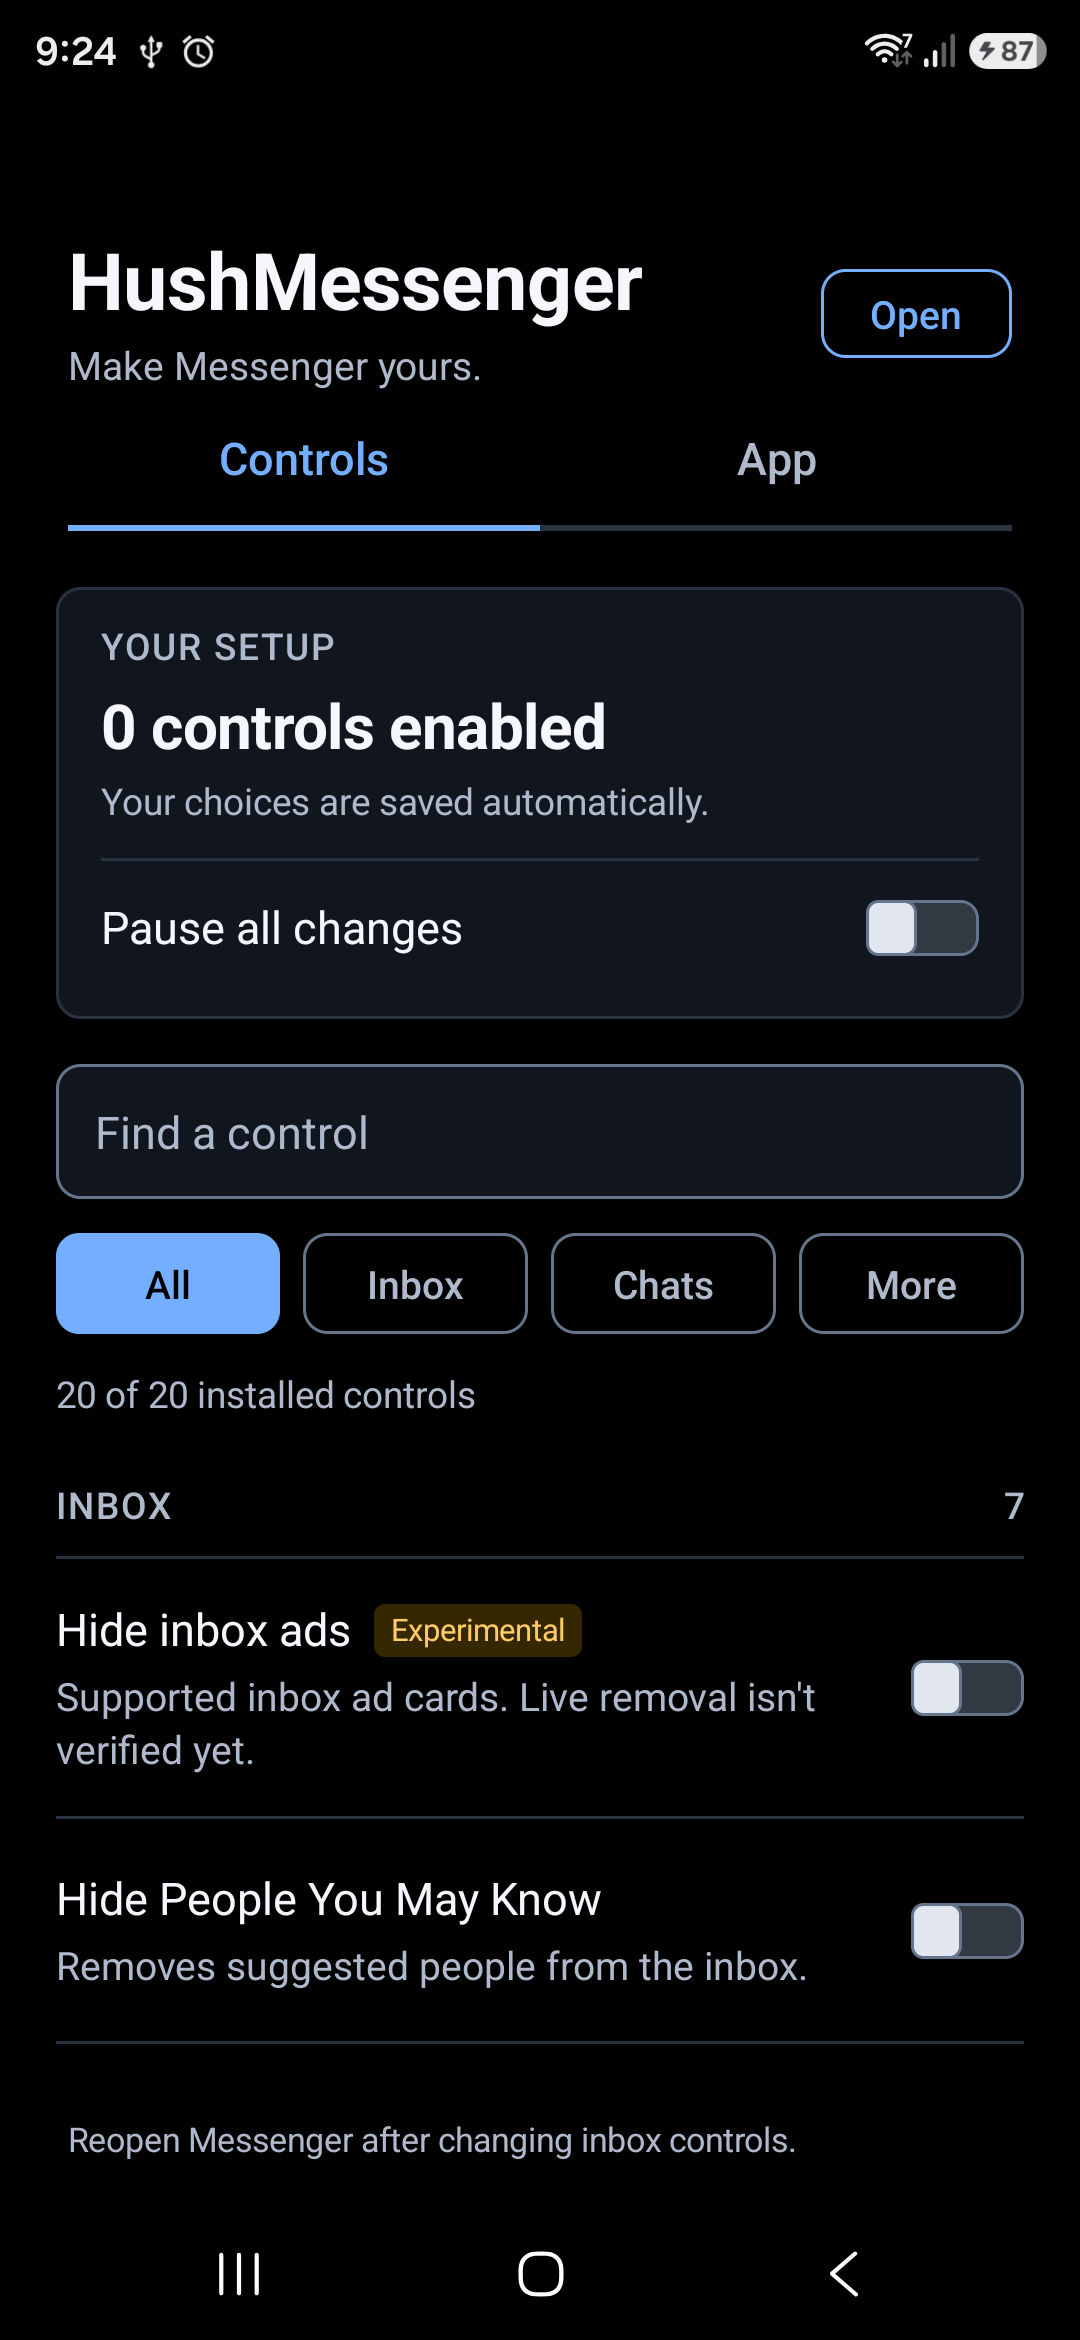
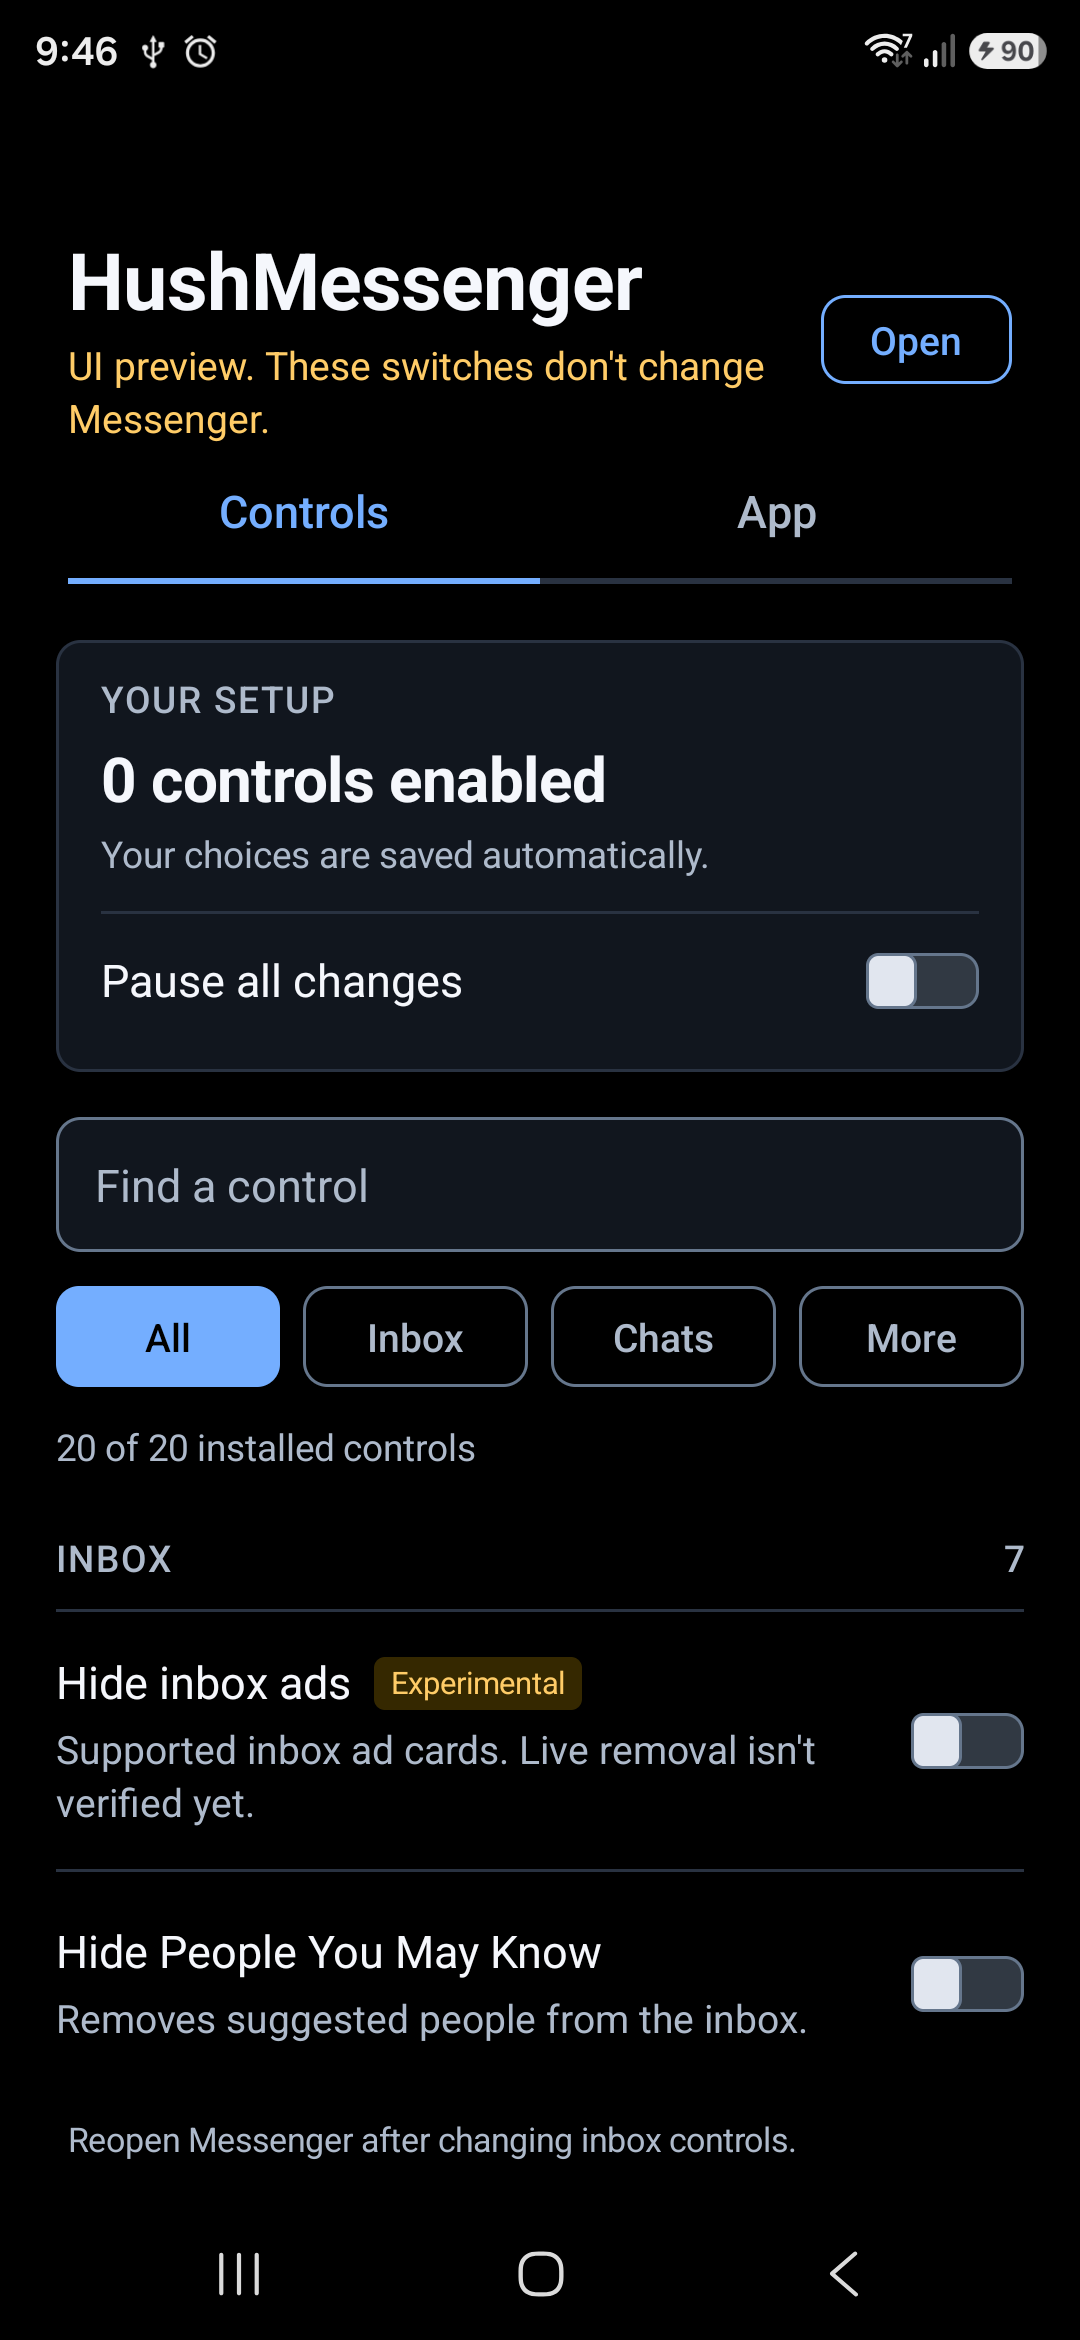
fix: distinguish settings previews from installed Messenger patches
New API 28/36 regressions reproduce the misleading preview label and launcher entry, then verify disclosure and inactive host reports. Existing tests and assertions are unchanged. Both stock phone APKs were hash-verified and leftover previews removed.

diff --git a/extensions/messenger/src/test/java/app/hushmessenger/extension/SettingsPreviewTest.java b/extensions/messenger/src/test/java/app/hushmessenger/extension/SettingsPreviewTest.java
@@ -1,0 +1,52 @@
+package app.hushmessenger.extension;
+
+import android.content.ClipboardManager;
+import android.content.Intent;
+import android.view.View;
+import android.widget.TextView;
+import org.junit.Before;
+import org.junit.Test;
+import org.junit.runner.RunWith;
+import org.robolectric.Robolectric;
+import org.robolectric.RobolectricTestRunner;
+import org.robolectric.RuntimeEnvironment;
+import org.robolectric.annotation.Config;
+import static org.junit.Assert.*;
+
+@RunWith(RobolectricTestRunner.class)
+@Config(sdk = {28, 36})
+public class SettingsPreviewTest {
+    @Before public void reset() {
+        Settings.initialize(RuntimeEnvironment.getApplication());
+        Settings.preferences.edit().clear().commit();
+    }
+
+    @Test public void previewDisclosesItsLimitsOnBothPagesAndNeverReportsActiveHostControls() {
+        try (var screen = Robolectric.buildActivity(SettingsActivity.class).setup()) {
+            View root = screen.get().getWindow().getDecorView();
+            assertEquals("HushMessenger UI preview", screen.get().getTitle().toString());
+            TextView notice = root.findViewWithTag("preview_notice");
+            assertNotNull(notice);
+            assertEquals("UI preview. These switches don't change Messenger.", notice.getText().toString());
+            root.findViewWithTag("people").performClick();
+            assertTrue(Settings.preferences.getBoolean("people", false));
+            root.findViewWithTag("tab_app").performClick();
+            assertEquals(View.VISIBLE, notice.getVisibility());
+            root.findViewWithTag("copy_setup").performClick();
+            String summary = screen.get().getSystemService(ClipboardManager.class)
+                .getPrimaryClip().getItemAt(0).getText().toString();
+            assertTrue(summary.contains("Mode: UI preview. Does not change Messenger.\n"));
+            assertTrue(summary.contains("people: installed=true, selected=true, active=false\n"));
+            assertFalse(summary.contains("active=true"));
+        }
+    }
+
+    @Test public void standalonePreviewHasNoAppDrawerEntryThatCouldBeMistakenForEmbeddedSettings() {
+        var application = RuntimeEnvironment.getApplication();
+        assertEquals("HushMessenger UI preview", application.getApplicationInfo()
+            .loadLabel(application.getPackageManager()).toString());
+        Intent launch = new Intent(Intent.ACTION_MAIN).addCategory(Intent.CATEGORY_LAUNCHER)
+            .setPackage(application.getPackageName());
+        assertTrue(application.getPackageManager().queryIntentActivities(launch, 0).isEmpty());
+    }
+}

diff --git a/extensions/messenger/src/main/java/app/hushmessenger/extension/SettingsActivity.java b/extensions/messenger/src/main/java/app/hushmessenger/extension/SettingsActivity.java
@@ -84,7 +84,7 @@ public final class SettingsActivity extends Activity {
         super.onCreate(state);
         text = new SettingsText(this);
         ui = new SettingsUi(this, light);
-        setTitle(text.get("settings"));
+        setTitle(text.get(Settings.preview ? "preview_title" : "settings"));
         getWindow().setNavigationBarColor(ui.background);
         getWindow().setStatusBarColor(ui.background);
         getWindow().getDecorView().setSystemUiVisibility(light ? View.SYSTEM_UI_FLAG_LIGHT_STATUS_BAR | View.SYSTEM_UI_FLAG_LIGHT_NAVIGATION_BAR : 0);
@@ -237,7 +237,10 @@ public final class SettingsActivity extends Activity {
         TextView title = ui.text("HushMessenger", 28, ui.text, true);
         title.setAccessibilityHeading(true);
         ui.add(wordmark, title, 0);
-        ui.add(wordmark, ui.text(text.get("tagline"), 14, ui.muted, false), 5);
+        TextView subtitle = ui.text(text.get(Settings.preview ? "preview_notice" : "tagline"), 14,
+            Settings.preview ? ui.warning : ui.muted, false);
+        if (Settings.preview) subtitle.setTag("preview_notice");
+        ui.add(wordmark, subtitle, 5);
         brand.addView(wordmark, new LinearLayout.LayoutParams(ui.largeText ? -1 : 0, -2, ui.largeText ? 0 : 1));
         Button open = ui.button(text.get("open"));
         open.setTag("open_messenger");
@@ -474,13 +477,14 @@ public final class SettingsActivity extends Activity {
                 .append("\nHost version code: ").append(host.getLongVersionCode())
                 .append("\nAndroid API: ").append(Build.VERSION.SDK_INT)
                 .append("\nPaused: ").append(paused).append("\nControls:\n");
+            if (Settings.preview) summary.append("Mode: UI preview. Does not change Messenger.\n");
             for (String[] spec : CONTROLS) {
                 String key = spec[0];
                 boolean installed = Settings.installed.contains(key);
                 boolean selected = Settings.preferences.getBoolean(key, false);
                 summary.append(key).append(": installed=").append(installed)
                     .append(", selected=").append(selected)
-                    .append(", active=").append(installed && selected && !paused && Settings.available(key)).append('\n');
+                    .append(", active=").append(!Settings.preview && installed && selected && !paused && Settings.available(key)).append('\n');
             }
             ClipData clip = ClipData.newPlainText(text.get("clipboard"), summary.toString());
             PersistableBundle extras = new PersistableBundle();

diff --git a/extensions/messenger/src/main/java/app/hushmessenger/extension/Settings.java b/extensions/messenger/src/main/java/app/hushmessenger/extension/Settings.java
@@ -16,12 +16,15 @@ import java.util.Set;
 public final class Settings {
     static volatile SharedPreferences preferences;
     static volatile Set<String> installed = Collections.emptySet();
+    static boolean preview;
 
     public static void initialize(Context context) {
         preferences = context.getApplicationContext().getSharedPreferences("hushmessenger", Context.MODE_PRIVATE);
         Set<String> features = new HashSet<>();
+        preview = false;
         try {
             Bundle metadata = context.getPackageManager().getApplicationInfo(context.getPackageName(), PackageManager.GET_META_DATA).metaData;
+            preview = metadata != null && metadata.getBoolean("hush.preview", false);
             if (metadata != null) for (String name : metadata.keySet()) {
                 if (name.startsWith("hush.feature.") && metadata.getBoolean(name, false)) features.add(name.substring(13));
             }

diff --git a/extensions/messenger/src/main/java/app/hushmessenger/extension/SettingsText.java b/extensions/messenger/src/main/java/app/hushmessenger/extension/SettingsText.java
@@ -72,6 +72,8 @@ final class SettingsText {
             case "conversations": return "Conversations";
             case "links_bubbles": return "Links and bubbles";
             case "settings": return "HushMessenger settings";
+            case "preview_title": return "HushMessenger UI preview";
+            case "preview_notice": return "UI preview. These switches don't change Messenger.";
             case "tagline": return "Make Messenger yours.";
             case "open": return "Open";
             case "open_messenger": return "Open Messenger";

diff --git a/README.md b/README.md
@@ -24,10 +24,11 @@ HushMessenger is a Morphe patch source for Facebook Messenger. It offers 21 sele
 3. **Check the source.** The HushMessenger card should show **21 patches**. Open **Patches** to browse the catalog. When preparing Messenger, use **Choose patches** to select individual features. Select all for every optional control plus `Install beside Meta apps`. Tap the card's refresh button if it stays on an old version.
 4. **Choose one source.** Use the remote or local HushMessenger source. Adding both creates two cards with the same name, which can point to different versions. If other sources offer Messenger patches, choose the one you intend; mixing independent patches can cause conflicts.
 
-For a local source, download [`patches-0.3.1.mpp`](https://github.com/SysAdminDoc/HushMessenger/releases/tag/v0.3.1) and add it through **Sources > + > Local**. A local source won't update itself. The `.mpp` file is a patch bundle, not an installable Messenger APK. These source steps follow [Morphe's source guide](https://github.com/MorpheApp/morphe-manager/blob/main/docs/patch-sources.md). Morphe Desktop can load the same source URL; the command below lists its 21 entries. Phone source verification last covered v0.2.0 on S22 (Manager 1.32.0) and S25 (1.33.0-dev.3). Phone refreshes are waiting for available isolated sessions. Both stock Messenger installations stayed intact. An earlier clean Manager emulator check covered local import. The phone behavior warning above still applies.
+For a local source, download [`patches-0.3.1.mpp`](https://github.com/SysAdminDoc/HushMessenger/releases/tag/v0.3.1) and add it through **Sources > + > Local**. A local source won't update itself. The `.mpp` file is a patch bundle, not an installable Messenger APK. These source steps follow [Morphe's source guide](https://github.com/MorpheApp/morphe-manager/blob/main/docs/patch-sources.md). Morphe Desktop can load the same source URL; the command below lists its 21 entries. Phone source verification last covered v0.2.0 on S22 (Manager 1.32.0) and S25 (1.33.0-dev.3). The phones are available for source refreshes. Their installed Messenger APKs are still unpatched. Both stock Messenger installations stayed intact. An earlier clean Manager emulator check covered local import. The phone behavior warning above still applies.
 
 ### If something doesn't work
 
+- **Switches have no effect:** The settings must be embedded in the patched Messenger APK. A separate settings preview cannot change stock Messenger. The latest S22/S25 check found both phones still had byte-identical stock APKs with no HushMessenger hooks; leftover preview apps were removed. Refreshing a Morphe source only downloads patches.
 - **Patch missing:** Check the source card's **Patches** list, turn on **Pre-release patches**, then tap its refresh button.
 - **APK rejected:** Use an unmodified arm64 Messenger 580.0.0.49.91 APK with version code `346013387` or `346013440`. If a permission or instruction check fails, the error names the tested builds.
 - **Android rejects installation over stock Messenger:** A re-signed APK can't replace Meta's signed copy. Keep your local data intact while you plan a backup. Future updates of your patched copy must reuse your key; see [Morphe's keystore guide](https://github.com/MorpheApp/morphe-manager/blob/main/docs/backup-and-keystore.md).
@@ -83,6 +84,8 @@ After installing Messenger with any optional HushMessenger control, open your ph
   <img src="assets/settings-light.png" width="300" alt="Controls tab in the light theme, with one saved control enabled">
 </p>
 
+These screenshots show the local UI preview, clearly marked in the header. The preview has no app-drawer entry and cannot change Messenger. The real settings entry is added inside Messenger by the selected patches.
+
 Settings use stable page and category IDs, so changing the language keeps navigation and saved choices intact. English is the fallback. The `en-XA` and `ar-XB` test languages expand or mirror the actual text, including accessible labels and count messages. No Messenger resource IDs are needed.
 
 The **App** tab contains the light theme, version details and setup help. **Copy setup** copies the extension and host versions, Android version, pause state and each control's installed, selected and active flags. It excludes account details, chats, device identifiers and recovery material. Nothing is sent; you choose where to paste it. **Open** in the header returns to Messenger. Refreshing the source in Morphe downloads the patch bundle; applying new controls to Messenger requires rebuilding and installing its APK.
@@ -133,7 +136,7 @@ On Windows, compare your file with `Get-FileHash -Algorithm SHA256 .\messenger.a
 
 ## Verification and build
 
-The local suite has 42 Kotlin tests, 50 Android unit tests and 34 Python checks. It covers separate patch selection, changed targets, feature availability, pause, saved choices, search and typed ad filtering. Release builds run locally. Android lint reports no errors and eight existing warnings.
+The local suite has 42 Kotlin tests, 54 Android unit tests and 34 Python checks. It covers separate patch selection, changed targets, feature availability, pause, saved choices, search and typed ad filtering. Release builds run locally. Android lint reports no errors and seven existing warnings.
 
 Morphe Desktop 1.17.0 applied all 21 patches to private copies of both supported APKs, and Android verified their v3 signatures. Two clean release builds produced the same bundle checksum. Both rebuilt APKs preserved all 13 compressed arm64 libraries, with 16KB minimum ELF load alignment. A changed permission fixture stopped before output; continued exports left failed People methods and permission declarations untouched. The earlier v0.2.0 single-control S25 build selected only **Hide People You May Know**: it changed exactly the two expected host methods, added settings once and recorded only that feature. The original signature-permission patch wasn't selected or applied in that check.
 
@@ -187,7 +190,7 @@ HushMessenger starts from the [Morphe patches template](https://github.com/Morph
 - Original-package startup, encrypted-history recovery and cross-app account behavior still need a faithful signed-in reproduction. The stock apps remain installed on the test phones.
 - [Issue 1](https://github.com/SysAdminDoc/HushMessenger/issues/1) reports Messenger 580 build `346013370`, which isn't one of the two validated APKs. Its exact original APK is needed before adding support.
 - Live ad removal, typing suppression, bubbles, calls and patched message delivery remain unverified. Structural APK checks don't establish those behaviors.
-- Phone source refreshes need isolated access. The S25 is disconnected, and Manager is active on the S22's main display.
+- Both phones currently run stock Messenger. A source refresh cannot activate patches until a working patched APK is installed.
 
 <p align="center">
   <a href="https://ko-fi.com/X8K126YVER"><img height="42" src="https://storage.ko-fi.com/cdn/kofi2.png?v=3" alt="Buy me a coffee on Ko-fi"></a>

diff --git a/CHANGELOG.md b/CHANGELOG.md
@@ -2,6 +2,8 @@
 
 ## Unreleased
 
+- Clearly mark the standalone settings app as a UI preview and remove its app-drawer entry. Preview setup reports never claim active Messenger controls. Remove leftover previews from both test phones after confirming their Messenger APKs remain stock.
+
 - Keep page and category state independent of translated labels. Add an English text catalog with expanded and right-to-left test languages, whole plural messages and locale-aware numbers. Honor Android app languages even when the host resource table falls back to English.
 
 - Publish a catalog generated from the built patch bundle. Local checks reject changed control keys, metadata, release versions and checksums before publication.
